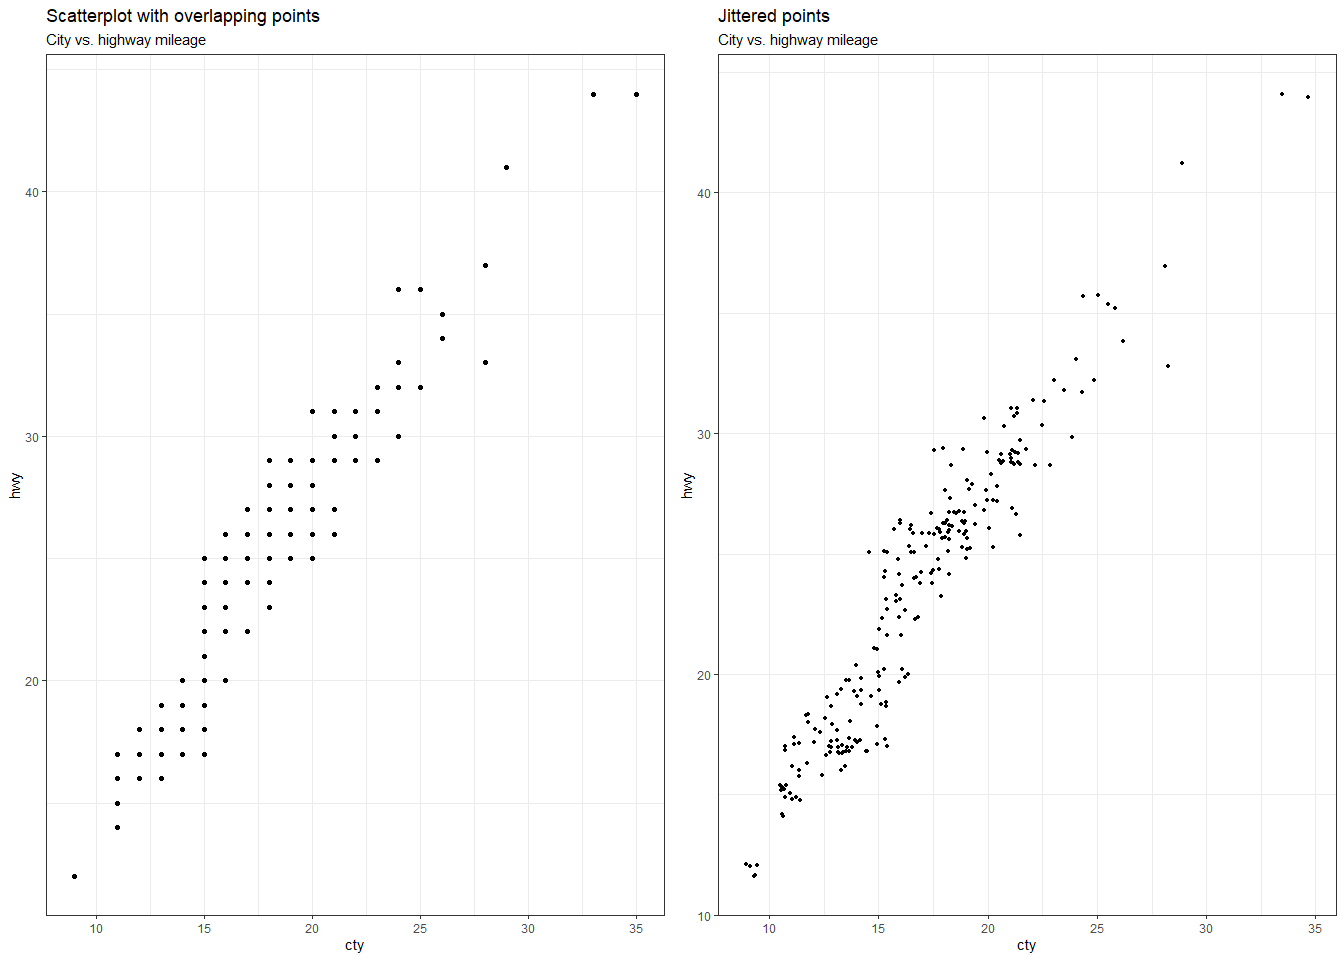
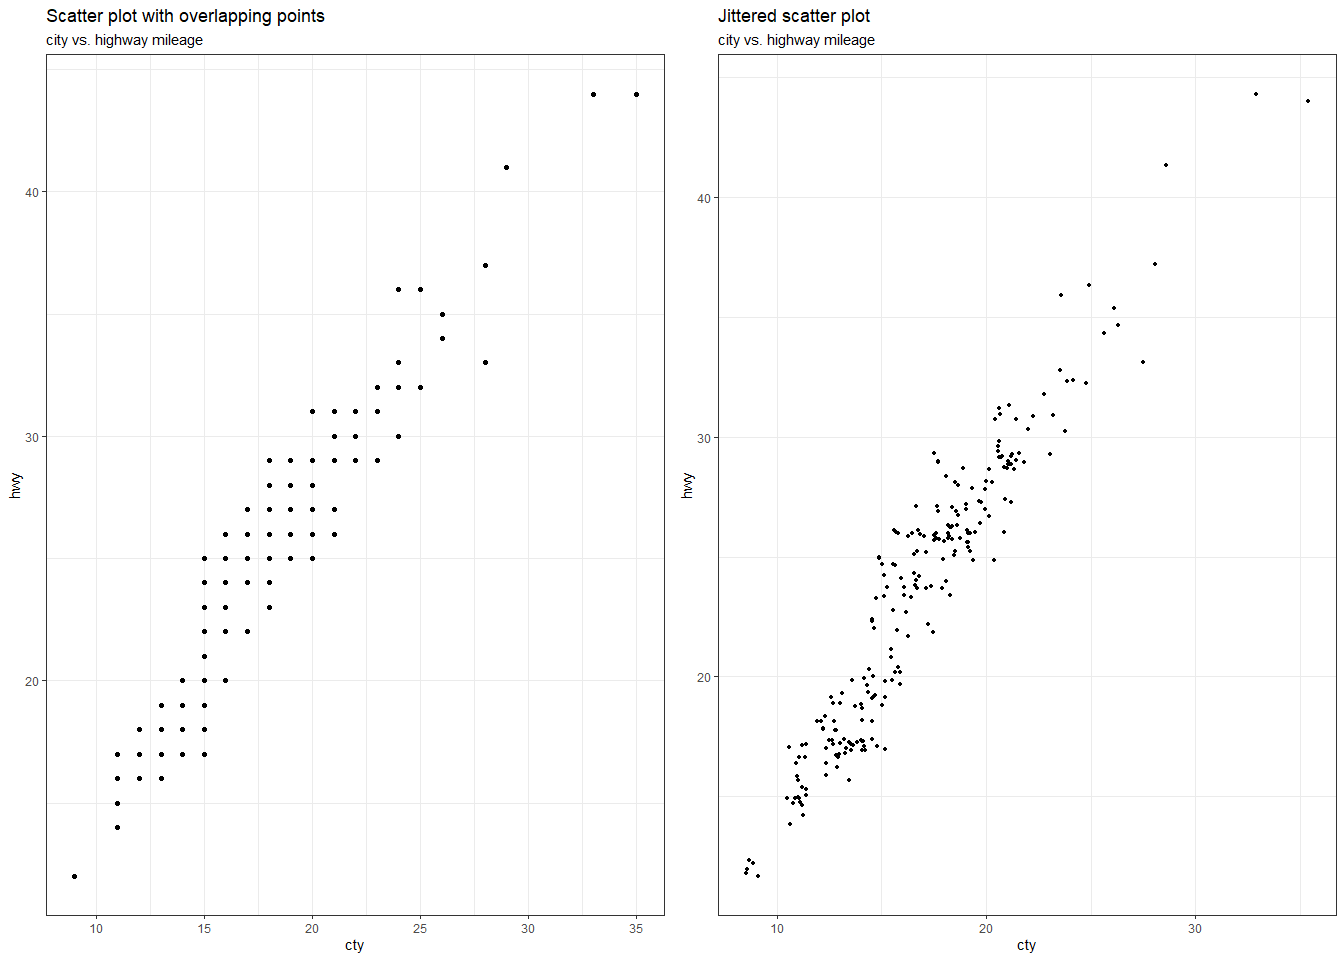
.

diff --git a/_posts/visualization/2022-06-26-jitter-plot.md b/_posts/visualization/2022-06-26-jitter-plot.md
@@ -1,0 +1,35 @@
+---
+title: "R로 구현하는 지터 플롯"
+categories: 시각화
+tags: [R, ggplot2, 산점도]
+---
+
+<div style="margin-bottom:100px;"></div>
+
+## 지터 플롯 (Jitter plot)
+
+지터는 데이터 값에 약간의 노이즈를 추가하는 방법을 말한다. 노이즈를 추가하면 데이터 값이 조금씩 움직여서 같은 값을 가지는 데이터가 그래프에 여러 번 겹쳐진 채 표시되는 것을 막아준다. `geom_point()`를 사용하는 대신 `geom_jitter()`를 사용하여 시각화할 수 있다. `geom_point()`와 `geom_jitter()` 둘 다 산점도를 그리지만 겹쳐진 점을 표시하는 방법에 차이가 있다.
+
+```r
+# load package and data
+library(ggplot2)
+library(gridExtra)
+theme_set(theme_bw()) # pre-set the bw theme.
+data("mpg", package = "ggplot2")
+
+g <- ggplot(mpg, aes(cty, hwy))
+
+# scatter plot
+point <- g + geom_point() + 
+  labs(title = "Scatter plot with overlapping points", 
+       subtitle = "city vs. highway mileage")
+
+# jitter plot
+jitter <- g + geom_jitter(width = 0.5, size = 1) +
+  labs(title = "Jittered scatter plot",
+       subtitle = "city vs. highway mileage")
+
+grid.arrange(point, jitter, ncol = 2)
+```
+
+![](/public/img/2022-06-22-visualization-summary/scatter_plot-1.png)

diff --git a/_posts/visualization/2022-06-25-scatter-plot.md b/_posts/visualization/2022-06-25-scatter-plot.md
@@ -1,7 +1,7 @@
 ---
 title: "R로 구현하는 산점도"
 categories: 시각화
-tags: [R, ggplot2]
+tags: [R, ggplot2, 산점도]
 ---
 
 <div style="margin-bottom:100px;"></div>
@@ -25,7 +25,7 @@ ggplot(midwest, aes(x = area, y = poptotal)) +
   labs(x = "area", 
        y = "population", 
        title = "Scatterplot", 
-       subtitle = "Area vs. population", 
+       subtitle = "area vs. population", 
        caption = "source: midwest")
 ```
 
